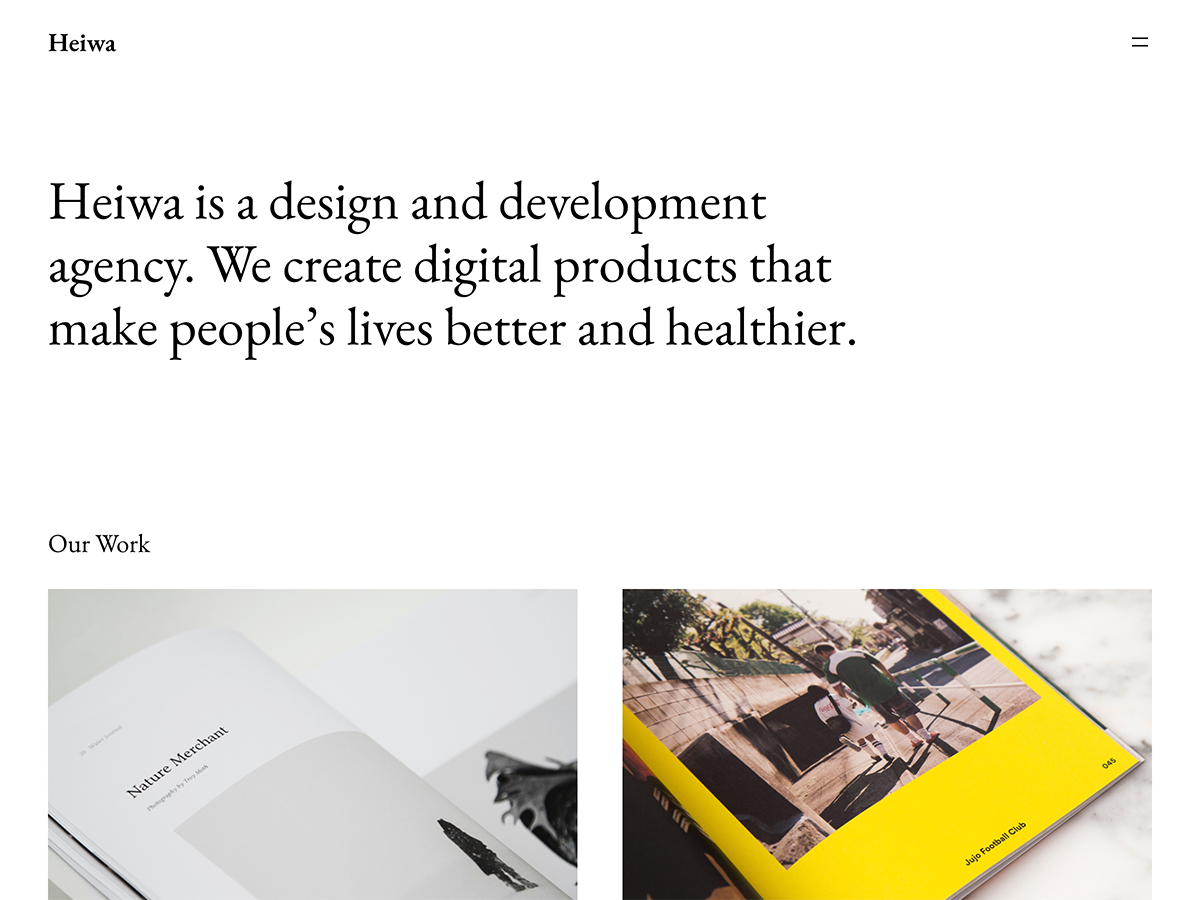
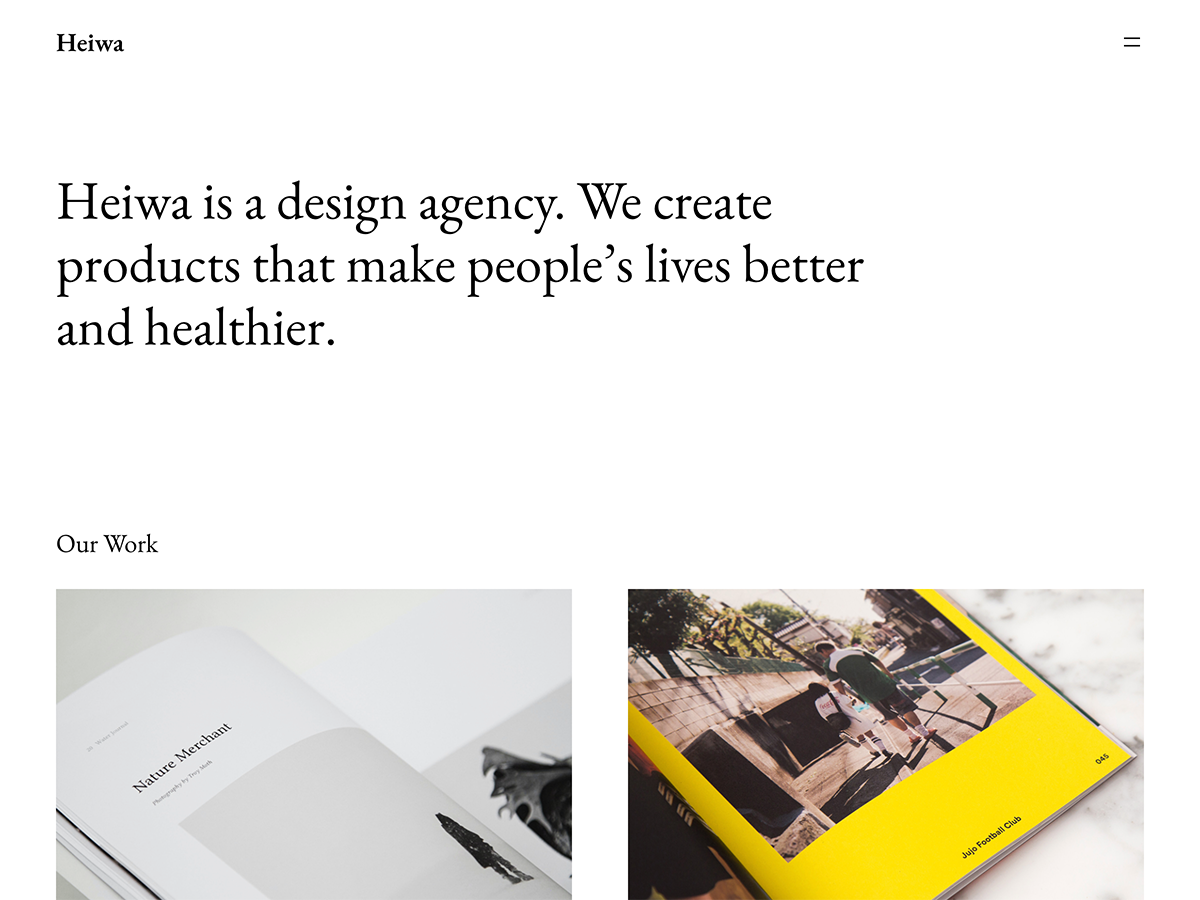
Heiwa: Horizontal space tweak and new screenshot

diff --git a/heiwa/parts/header.html b/heiwa/parts/header.html
@@ -1,6 +1,6 @@
 <!-- wp:group {"className":"gapless-group","layout":{"inherit":"true"}} -->
-<div class="wp-block-group gapless-group"><!-- wp:group {"align":"full","style":{"spacing":{"padding":{"bottom":"var(--wp--custom--gap--vertical)","top":"var(--wp--custom--gap--vertical)","right":"4vw","left":"4vw"}},"elements":{"link":{"color":{"text":"var:preset|color|foreground"}}}},"className":"site-header","layout":{"type":"flex","justifyContent":"space-between"}} -->
-<div class="wp-block-group alignfull site-header has-link-color" style="padding-top:var(--wp--custom--gap--vertical);padding-right:4vw;padding-bottom:var(--wp--custom--gap--vertical);padding-left:4vw"><!-- wp:group {"className":"site-brand","layout":{"type":"flex"}} -->
+<div class="wp-block-group gapless-group"><!-- wp:group {"align":"full","style":{"spacing":{"padding":{"bottom":"var(--wp--custom--gap--vertical)","top":"var(--wp--custom--gap--vertical)"}},"elements":{"link":{"color":{"text":"var:preset|color|foreground"}}}},"className":"site-header","layout":{"type":"flex","justifyContent":"space-between"}} -->
+<div class="wp-block-group alignfull site-header has-link-color" style="padding-top:var(--wp--custom--gap--vertical);padding-bottom:var(--wp--custom--gap--vertical)"><!-- wp:group {"className":"site-brand","layout":{"type":"flex"}} -->
 <div class="wp-block-group site-brand"><!-- wp:site-logo {"width":64} /-->
 
 <!-- wp:site-title /--></div>

diff --git a/heiwa/patterns/footer-default.php b/heiwa/patterns/footer-default.php
@@ -10,8 +10,8 @@
 <!-- wp:group {"style":{"spacing":{"blockGap":{"top":"0px","left":"0px"},"margin":{"top":"0px","bottom":"0px"}}},"layout":{"inherit":true}} -->
 <div class="wp-block-group" style="margin-top:0px;margin-bottom:0px">
 
-	<!-- wp:group {"align":"full","style":{"spacing":{"padding":{"top":"7vw","bottom":"7vw","right":"4vw","left":"4vw"}},"elements":{"link":{"color":{"text":"var:preset|color|background"}}}},"backgroundColor":"foreground","textColor":"background"} -->
-	<div class="wp-block-group alignfull has-background-color has-foreground-background-color has-text-color has-background has-link-color" style="padding-top:7vw;padding-right:4vw;padding-bottom:7vw;padding-left:4vw">
+	<!-- wp:group {"align":"full","style":{"spacing":{"padding":{"top":"7vw","bottom":"7vw"}},"elements":{"link":{"color":{"text":"var:preset|color|background"}}}},"backgroundColor":"foreground","textColor":"background"} -->
+	<div class="wp-block-group alignfull has-background-color has-foreground-background-color has-text-color has-background has-link-color" style="padding-top:7vw;padding-bottom:7vw">
 
 		<!-- wp:columns -->
 		<div class="wp-block-columns">
@@ -128,8 +128,8 @@
 	</div>
 	<!-- /wp:group -->
 
-	<!-- wp:group {"align":"full","style":{"spacing":{"padding":{"right":"4vw","left":"4vw"}},"elements":{"link":{"color":{"text":"var:preset|color|background"}}}},"backgroundColor":"foreground","textColor":"background","layout":{"inherit":false}} -->
-	<div class="wp-block-group alignfull has-background-color has-foreground-background-color has-text-color has-background has-link-color" style="padding-right:4vw;padding-left:4vw">
+	<!-- wp:group {"align":"full","style":{"elements":{"link":{"color":{"text":"var:preset|color|background"}}}},"backgroundColor":"foreground","textColor":"background","layout":{"inherit":false}} -->
+	<div class="wp-block-group alignfull has-background-color has-foreground-background-color has-text-color has-background has-link-color">
 
 		<!-- wp:paragraph {"align":"left"} -->
 		<p class="has-text-align-left">
